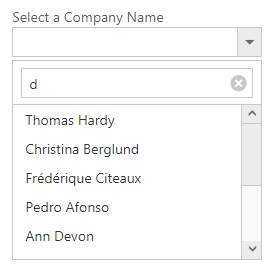
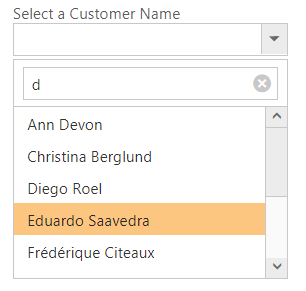
Filtering has been added

Changed region(s): [[0.0291, 0.0292, 0.96, 0.9635], [0.0873, 0.4964, 0.5236, 0.5839], [0.0873, 0.8467, 0.5236, 0.9051]]

diff --git a/aspnetmvc-toc.html b/aspnetmvc-toc.html
@@ -774,7 +774,7 @@
                 <a href="/aspnetmvc/dropdownlist/settingdimension">Setting Dimension</a>
             </li>
 			<li>
-                <a href="/aspnetmvc/dropdownlist/ServerFiltering">Server Filtering</a>
+                <a href="/aspnetmvc/dropdownlist/ServerFiltering">Filtering</a>
             </li>
             <li>
                 <a href="/aspnetmvc/dropdownlist/statepersistance">State Persistence</a>

diff --git a/aspnetmvc/DropDownList/ServerFiltering.md b/aspnetmvc/DropDownList/ServerFiltering.md
@@ -1,27 +1,114 @@
 ---
 layout: post
-title: Server Filtering in the DropDownList control for Syncfusion ASP.NET MVC
-description: Description about server filtering in the DropDownList control for Syncfusion ASP.NET MVC
+title: Searching in the DropDownList control for Syncfusion ASP.NET MVC
+description: Description about searching in the DropDownList control for Syncfusion ASP.NET MVC
 platform: mvc
 control: DropDownList
 documentation: ug
-keywords: DropDownList, dropdown, Filtering, Server Filtering
+keywords: DropDownList, dropdown, Filtering, Server Filtering, Search, Incremental Search, Filter Search
 ---
 
-# Server Filtering
+# Search
+
+Items are searched based on the keyed in values to the textbox. There are two types of searches,
+
+* Incremental Search
+* Filter Search
+
+## Incremental Search
+
+Selects the item in the popup list based on the keyed in value. If the time taken to type exceeds 1000 milliseconds then filtered items will be reset based on the current input value. By default this mode of search is enabled. Incremental search can be case sensitive or case insensitive. To make case sensitive, you can use CaseSensitiveSearch property.
+
+{% tabs %}
+
+	{% highlight html %}
+        @model MVCApplication.Controllers.HomeController
+        
+        @Html.EJ().DropDownList("DropDownList").Datasource((IEnumerable<Data>)ViewData["DropDownSource"]).DropDownListFields(Df => Df.Text("Text").Value("Value")).EnableIncrementalSearch(true).CaseSensitiveSearch(true)
+		
+	{% endhighlight %}
+    
+    {% highlight c# %}
+        public ActionResult Index()
+        {
+            List<Data> DropDownData = new List<Data>();
+            DropDownData.Add(new Data { Value = "emp1", Text = "Adams", Selected = true });
+            DropDownData.Add(new Data { Value = "emp2", Text = "James", Selected = false });
+            DropDownData.Add(new Data { Value = "emp3", Text = "Maria", Selected = true });
+            DropDownData.Add(new Data { Value = "emp4", Text = "Jessica", Selected = false });
+            DropDownData.Add(new Data { Value = "emp5", Text = "Jenneth", Selected = false });
+            ViewData["DropDownSource"] = DropDownData;
+            return View();
+        }
+        public class Data
+        {
+            public string Value { get; set; }
+            public string Text { get; set; }
+        }
+    {% endhighlight %}
+    
+{% endtabs %}
+
+![](Functionalities_images/Functionalities_img8.jpeg)
+
+## Filter search
+
+You can quickly locate specific item within a large data source by filtering matches with a search box. A text box appears in the popup list for searching when EnableFilterSearch property is enabled. By default, filtering returns the matched items list based on text in search textbox. 
+You can configure the search filter by using FilterType property that takes SearchFilterType enum values. There is two types of filter options,
+
+* Starts With 
+* Contains
+
+N> Items are filtered based on “SearchFilterType.Contains” filter type by default.
+
+{% tabs %}
+
+	{% highlight html %}
+        @model MVCApplication.Controllers.HomeController
+        
+        @Html.EJ().DropDownList("DropDownList").Datasource((IEnumerable<Data>)ViewData["DropDownSource"]).DropDownListFields(Df => Df.Text("Text").Value("Value")).EnableFilterSearch(true).FilterType(SearchFilterType.StartsWith)
+		
+	{% endhighlight %}
+    
+    {% highlight c# %}
+        public ActionResult Index()
+        {
+            List<Data> DropDownData = new List<Data>();
+            DropDownData.Add(new Data { Value = "emp1", Text = "Adams", Selected = true });
+            DropDownData.Add(new Data { Value = "emp2", Text = "James", Selected = false });
+            DropDownData.Add(new Data { Value = "emp3", Text = "Maria", Selected = true });
+            DropDownData.Add(new Data { Value = "emp4", Text = "Jessica", Selected = false });
+            DropDownData.Add(new Data { Value = "emp5", Text = "Jenneth", Selected = false });
+            ViewData["DropDownSource"] = DropDownData;
+            return View();
+        }
+        public class Data
+        {
+            public string Value { get; set; }
+            public string Text { get; set; }
+        }
+    {% endhighlight %}
+    
+{% endtabs %}
+
+![](Functionalities_images/Functionalities_img9.jpeg)
+
+I> When VirtualScrolling enabled with searching, then filter will be applied only on the DropDownList items available at the moment.
+
+## Server Filtering
 
 Server filtering for displaying only a fixed amount of dataset from the whole dataset. In general, DropDownList displays just the data returned from the server. This feature is convenient for you to apply when the user does not want to see the whole dataset in the popup wrapper.
 EnableServerFiltering If set to true, the filtering operations performed in the remote service and returns the result.
 
 {% highlight html %}
-     <div class="ctrllabel">Select a Company Name</div>
+     <div class="ctrllabel">Select a Customer Name</div>
     @(Html.EJ().DropDownList("ContactName")
                 .Datasource(ds => ds.URL("http://js.syncfusion.com/demos/ejServices/Wcf/Northwind.svc/Customers").CrossDomain(true))
         .DropDownListFields(f => f.Text("ContactName").Value("ContactName"))
         .Width("100%")
         .EnableFilterSearch(true)
         .EnableServerFiltering(true)
-        .WatermarkText("Select a Contact Name")
+        .WatermarkText("Select a Customer Name")
     )
 
 {% endhighlight %}

diff --git a/aspnetmvc/DropDownList/Functionalities.md b/aspnetmvc/DropDownList/Functionalities.md
@@ -736,91 +736,3 @@ The below scenario can be explained with three DropDownList for the multi-level 
 
 First two DropDownList cascaded based on the parentId, and then from second to third, cascading performed based on the value field.
 
-## Search
-
-Items are searched based on the keyed in values to the textbox. There are two types of searches,
-
-* Incremental Search
-* Filter Search
-
-### Incremental Search
-
-Selects the item in the popup list based on the keyed in value. If the time taken to type exceeds 1000 milliseconds then filtered items will be reset based on the current input value. By default this mode of search is enabled. Incremental search can be case sensitive or case insensitive. To make case sensitive, you can use CaseSensitiveSearch property.
-
-{% tabs %}
-
-	{% highlight html %}
-        @model MVCApplication.Controllers.HomeController
-        
-        @Html.EJ().DropDownList("DropDownList").Datasource((IEnumerable<Data>)ViewData["DropDownSource"]).DropDownListFields(Df => Df.Text("Text").Value("Value")).EnableIncrementalSearch(true).CaseSensitiveSearch(true)
-		
-	{% endhighlight %}
-    
-    {% highlight c# %}
-        public ActionResult Index()
-        {
-            List<Data> DropDownData = new List<Data>();
-            DropDownData.Add(new Data { Value = "emp1", Text = "Adams", Selected = true });
-            DropDownData.Add(new Data { Value = "emp2", Text = "James", Selected = false });
-            DropDownData.Add(new Data { Value = "emp3", Text = "Maria", Selected = true });
-            DropDownData.Add(new Data { Value = "emp4", Text = "Jessica", Selected = false });
-            DropDownData.Add(new Data { Value = "emp5", Text = "Jenneth", Selected = false });
-            ViewData["DropDownSource"] = DropDownData;
-            return View();
-        }
-        public class Data
-        {
-            public string Value { get; set; }
-            public string Text { get; set; }
-        }
-    {% endhighlight %}
-    
-{% endtabs %}
-
-![](Functionalities_images/Functionalities_img8.jpeg)
-
-### Filter search
-
-You can quickly locate specific item within a large data source by filtering matches with a search box. A text box appears in the popup list for searching when EnableFilterSearch property is enabled. By default, filtering returns the matched items list based on text in search textbox. 
-You can configure the search filter by using FilterType property that takes SearchFilterType enum values. There is two types of filter options,
-
-* Starts With 
-* Contains
-
-N> Items are filtered based on “SearchFilterType.Contains” filter type by default.
-
-{% tabs %}
-
-	{% highlight html %}
-        @model MVCApplication.Controllers.HomeController
-        
-        @Html.EJ().DropDownList("DropDownList").Datasource((IEnumerable<Data>)ViewData["DropDownSource"]).DropDownListFields(Df => Df.Text("Text").Value("Value")).EnableFilterSearch(true).FilterType(SearchFilterType.StartsWith)
-		
-	{% endhighlight %}
-    
-    {% highlight c# %}
-        public ActionResult Index()
-        {
-            List<Data> DropDownData = new List<Data>();
-            DropDownData.Add(new Data { Value = "emp1", Text = "Adams", Selected = true });
-            DropDownData.Add(new Data { Value = "emp2", Text = "James", Selected = false });
-            DropDownData.Add(new Data { Value = "emp3", Text = "Maria", Selected = true });
-            DropDownData.Add(new Data { Value = "emp4", Text = "Jessica", Selected = false });
-            DropDownData.Add(new Data { Value = "emp5", Text = "Jenneth", Selected = false });
-            ViewData["DropDownSource"] = DropDownData;
-            return View();
-        }
-        public class Data
-        {
-            public string Value { get; set; }
-            public string Text { get; set; }
-        }
-    {% endhighlight %}
-    
-{% endtabs %}
-
-![](Functionalities_images/Functionalities_img9.jpeg)
-
-I> When VirtualScrolling enabled with searching, then filter will be applied only on the DropDownList items available at the moment.
-
-
